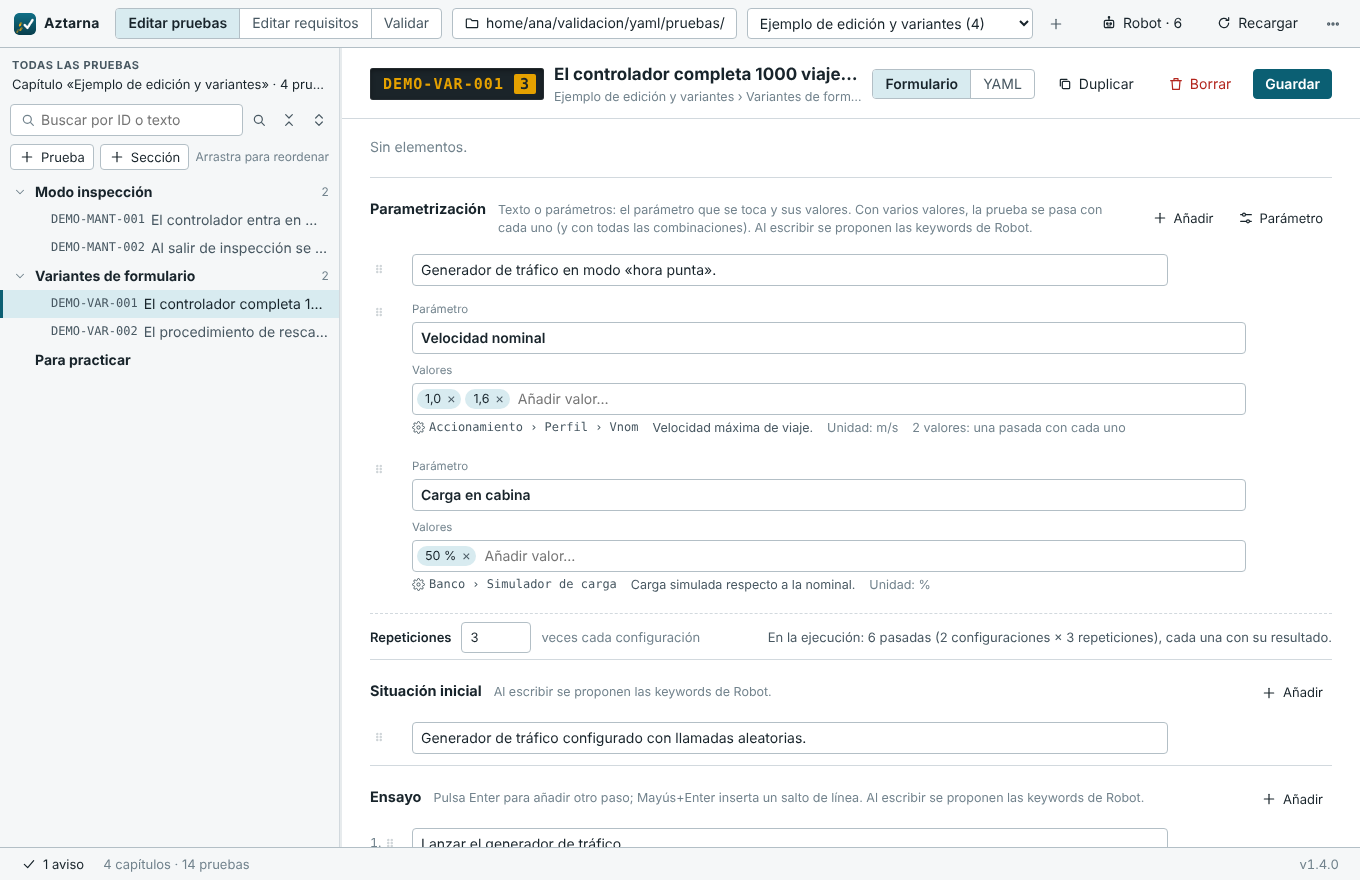
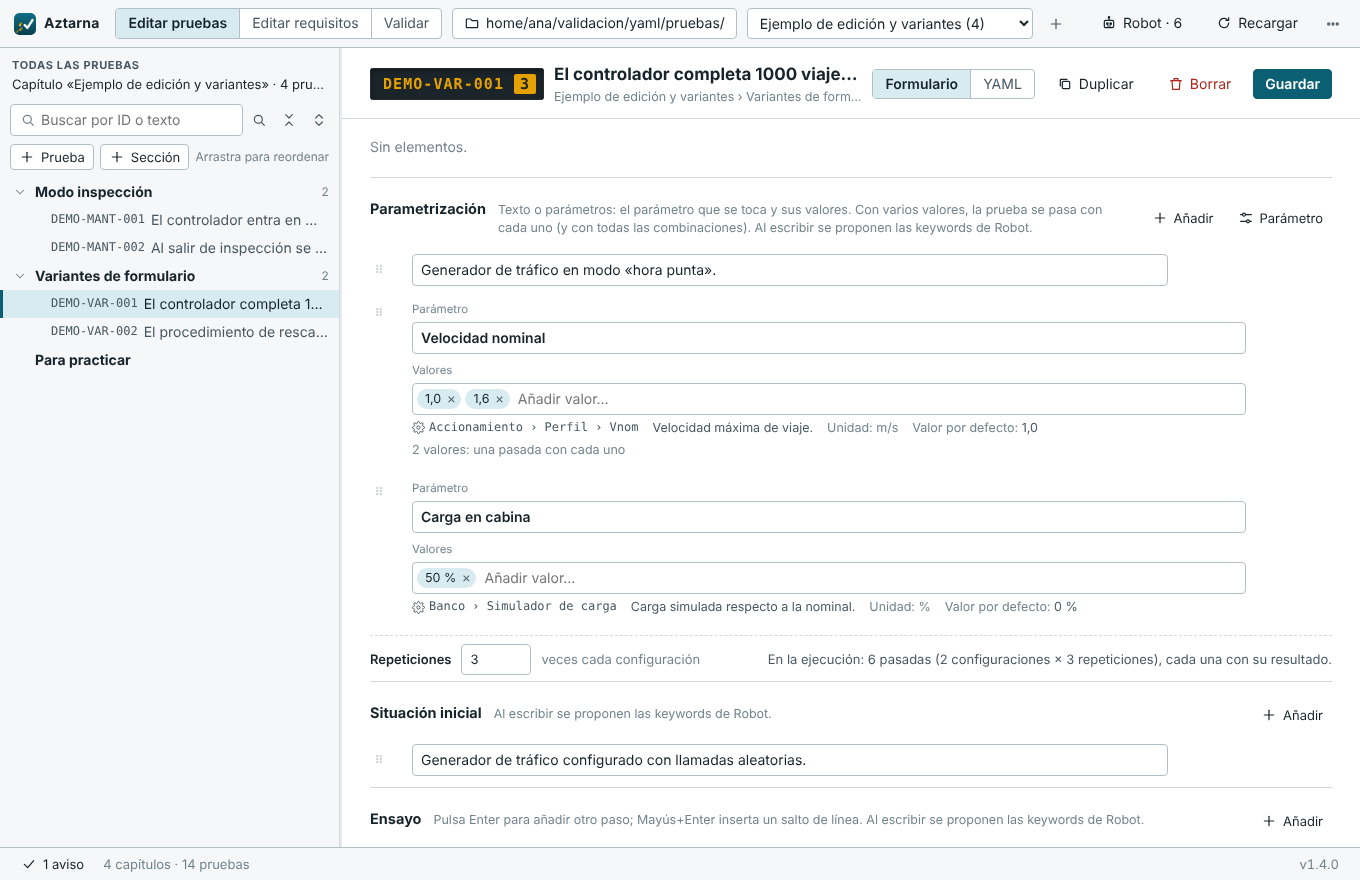
Catálogo de parámetros: solo la columna del parámetro es obligatoria; las demás se enseñan tal cual
Claude-Session: https://claude.ai/code/session_01J8Tj4AQ5BQ3LtPFJNhaWze

Changed region(s): [[0.2779, 0.4909, 0.9882, 0.9818], [0.6794, 0.4602, 0.8029, 0.4909], [0.9265, 0.8898, 0.9882, 0.9511]]

diff --git a/web/js/form.js b/web/js/form.js
@@ -655,6 +655,8 @@ function notaParametro(fila) {
     if (cat.ubicacion) partes.push(h("span", { class: "ubicacion", title: "Dónde se toca en el configurador" }, icon("engranaje"), cat.ubicacion));
     if (cat.descripcion) partes.push(h("span", { text: cat.descripcion }));
     if (cat.unidad) partes.push(h("span", { class: "muted", text: `Unidad: ${cat.unidad}` }));
+    // Las demás columnas del catálogo, tal cual («Valor por defecto: 1,0»).
+    for (const [columna, valor] of cat.otros || []) partes.push(h("span", {}, h("span", { class: "muted", text: `${columna}: ` }), valor));
     const fuera = cat.valores.length ? fila.valores.filter((v) => !cat.valores.some((c) => claveNombre(c) === claveNombre(v))) : [];
     if (fuera.length) partes.push(h("span", { class: "aviso-parametro", text: `${fuera.join(", ")}: no ${fuera.length === 1 ? "es un valor" : "son valores"} del catálogo` }));
   } else if (AYUDA_PARAMETROS.catalogo.length) {

diff --git a/app/parametros.py b/app/parametros.py
@@ -249,12 +249,26 @@ def _separar_valores(texto: str) -> list[str]:
     return [v.strip() for v in re.split(r"[;\n|]", texto) if v.strip()]
 
 
-def leer_catalogo(ruta: str | Path) -> list[dict[str, Any]]:
-    """Parámetros del catálogo: [{parametro, ubicacion, descripcion, valores, unidad}].
+def _columnas(claves: list[str]) -> dict[str, int | None]:
+    """Columna de cada dato que se reconoce (por orden de preferencia de sus nombres)."""
+    posicion: dict[str, int | None] = {}
+    usadas: set[int] = set()
+    for campo, nombres in COLUMNAS.items():
+        posicion[campo] = next((i for nombre in nombres for i, c in enumerate(claves) if c == nombre and i not in usadas), None)
+        if posicion[campo] is not None:
+            usadas.add(posicion[campo])
+    return posicion
 
-    La primera fila con una columna «Parámetro» es la cabecera; las demás
-    columnas que se reconocen (Ubicación, Descripción, Valores, Unidad) son
-    opcionales. Los valores van separados por «;» (o en líneas).
+
+def leer_catalogo(ruta: str | Path) -> list[dict[str, Any]]:
+    """Parámetros del catálogo: [{parametro, ubicacion, descripcion, valores, unidad, otros}].
+
+    La cabecera es la primera fila con una columna «Parámetro» (o, si ninguna la
+    tiene, la primera fila con algo, y el parámetro es su primera columna). Las
+    demás columnas son opcionales y van en cualquier orden: Ubicación,
+    Descripción, Valores (separados por «;» o en líneas) y Unidad se reconocen
+    por su nombre; las que tengan otro nombre van en `otros` como
+    [[columna, valor], …], para enseñarlas tal cual.
     """
     ruta = Path(ruta)
     try:
@@ -265,23 +279,30 @@ def leer_catalogo(ruta: str | Path) -> list[dict[str, Any]]:
     for n, fila in enumerate(filas):
         claves = [clave_nombre(c) for c in fila]
         if any(c in COLUMNAS["parametro"] for c in claves):
-            cabecera = n
-            for campo, nombres in COLUMNAS.items():
-                posicion[campo] = next((i for i, c in enumerate(claves) if c in nombres), None)
+            cabecera, posicion = n, _columnas(claves)
             break
     if cabecera is None:
-        raise ValueError(f"{ruta.name}: falta la columna «Parámetro» en el catálogo de parámetros.")
+        # Sin columna «Parámetro»: la primera fila con algo es la cabecera y el parámetro, su primera columna.
+        cabecera = next((n for n, fila in enumerate(filas) if any(c.strip() for c in fila)), None)
+        if cabecera is None:
+            raise ValueError(f"{ruta.name}: el catálogo de parámetros está vacío.")
+        primera = next(i for i, c in enumerate(filas[cabecera]) if c.strip())
+        claves = [clave_nombre(c) if i != primera else "parametro" for i, c in enumerate(filas[cabecera])]
+        posicion = _columnas(claves)
+    reconocidas = {i for i in posicion.values() if i is not None}
+    otras = [(i, c.strip()) for i, c in enumerate(filas[cabecera]) if i not in reconocidas and c.strip()]
     catalogo, vistos = [], set()
     for fila in filas[cabecera + 1:]:
-        def celda(campo: str) -> str:
-            i = posicion.get(campo)
+        def celda(i: int | None) -> str:
             return fila[i].strip() if i is not None and i < len(fila) else ""
-        nombre = celda("parametro")
+        nombre = celda(posicion.get("parametro"))
         if not nombre or clave_nombre(nombre) in vistos:
             continue
         vistos.add(clave_nombre(nombre))
-        catalogo.append({"parametro": nombre, "ubicacion": celda("ubicacion"), "descripcion": celda("descripcion"),
-                         "valores": _separar_valores(celda("valores")), "unidad": celda("unidad")})
+        catalogo.append({"parametro": nombre, "ubicacion": celda(posicion.get("ubicacion")),
+                         "descripcion": celda(posicion.get("descripcion")),
+                         "valores": _separar_valores(celda(posicion.get("valores"))), "unidad": celda(posicion.get("unidad")),
+                         "otros": [[columna, celda(i)] for i, columna in otras if celda(i)]})
     return catalogo
 
 

diff --git a/tests/test_parametros.py b/tests/test_parametros.py
@@ -90,6 +90,7 @@ class CatalogoTests(unittest.TestCase):
         self.assertEqual(velocidad["ubicacion"], "Accionamiento › Perfil › Vnom")
         self.assertEqual(velocidad["valores"], ["0,5", "1,0", "1,6", "2,5"])
         self.assertEqual(velocidad["unidad"], "m/s")
+        self.assertEqual(velocidad["otros"], [["Valor por defecto", "1,0"]])
 
     def test_excel_con_titulo_encima_y_columnas_en_otro_orden(self):
         libro = Workbook()
@@ -101,12 +102,25 @@ class CatalogoTests(unittest.TestCase):
         libro.save(self.tmp / "catalogo.xlsx")
         self.assertEqual(parametros.leer_catalogo(self.tmp / "catalogo.xlsx"),
                          [{"parametro": "Número de paradas", "ubicacion": "Instalación", "descripcion": "",
-                           "valores": ["4", "8"], "unidad": ""}])
+                           "valores": ["4", "8"], "unidad": "", "otros": []}])
 
-    def test_sin_columna_parametro(self):
-        (self.tmp / "malo.csv").write_text("A;B\n1;2\n", encoding="utf-8")
-        with self.assertRaisesRegex(ValueError, "Parámetro"):
-            parametros.leer_catalogo(self.tmp / "malo.csv")
+    def test_otras_columnas_se_conservan_tal_cual(self):
+        (self.tmp / "c.csv").write_text("Nombre en el configurador;Parámetro;Valor por defecto;Módulo\n"
+                                        "Vnom;Velocidad nominal;1,0;\n", encoding="utf-8")
+        p = parametros.leer_catalogo(self.tmp / "c.csv")[0]
+        self.assertEqual((p["parametro"], p["otros"]),
+                         ("Velocidad nominal", [["Nombre en el configurador", "Vnom"], ["Valor por defecto", "1,0"]]))
+
+    def test_sin_columna_parametro_vale_la_primera(self):
+        (self.tmp / "d.csv").write_text("\nSeñal;Rango\nT_puertas;2..8 s\n", encoding="utf-8")
+        self.assertEqual(parametros.leer_catalogo(self.tmp / "d.csv"),
+                         [{"parametro": "T_puertas", "ubicacion": "", "descripcion": "", "valores": [], "unidad": "",
+                           "otros": [["Rango", "2..8 s"]]}])
+
+    def test_vacio(self):
+        (self.tmp / "vacio.csv").write_text("\n;\n", encoding="utf-8")
+        with self.assertRaisesRegex(ValueError, "vacío"):
+            parametros.leer_catalogo(self.tmp / "vacio.csv")
 
     def test_aztarna_yaml_indica_el_catalogo(self):
         try:

diff --git a/MANUAL.md b/MANUAL.md
@@ -496,12 +496,21 @@ ser parámetros y repeticiones. Cómo se pasan en una ejecución: ver
 [6.5](#65-pasar-una-prueba).
 
 **El catálogo de parámetros** es un Excel (`.xlsx`) o un CSV del proyecto con
-una fila por parámetro y las columnas **Parámetro** (obligatoria),
-**Ubicación** (dónde está en el configurador), **Descripción**, **Valores**
-(los admitidos, separados por `;`) y **Unidad**; la primera fila con una
-columna *Parámetro* es la cabecera, así que puede tener un título encima. Se
-indica en el `aztarna.yaml` del proyecto, con la ruta relativa a él, y va a
-Git con las pruebas:
+una fila por parámetro. La única columna obligatoria es la del **Parámetro**
+(su nombre); las demás son al gusto y en cualquier orden:
+
+- estas se reconocen por su nombre (sin importar mayúsculas ni tildes) y
+  tienen uso propio: **Ubicación** (o *Dónde*, *Configurador*, *Ruta*: dónde
+  está en el configurador), **Descripción**, **Valores** (los admitidos,
+  separados por `;` o en líneas; vacía, cualquier valor vale) y **Unidad**;
+- cualquier otra (*Valor por defecto*, *Nombre en el configurador*,
+  *Módulo*…) se enseña tal cual debajo del parámetro, como «Valor por
+  defecto: 1,0».
+
+La cabecera es la primera fila con una columna *Parámetro*, así que puede
+haber un título encima; si ninguna columna se llama así, el parámetro es la
+primera columna. Se indica en el `aztarna.yaml` del proyecto, con la ruta
+relativa a él, y va a Git con las pruebas:
 
 ```yaml
 parametros: parametros.xlsx

diff --git a/README.md b/README.md
@@ -193,9 +193,11 @@ equivalencias:                 # otras formas de escribirlas en el Word
 parametros: parametros.xlsx    # catálogo de parámetros (opcional, ver app/parametros.py)
 ```
 
-El catálogo de parámetros es un Excel o CSV con las columnas Parámetro,
-Ubicación, Descripción, Valores (separados por `;`) y Unidad; el editor
-propone sus parámetros al escribir la parametrización. Ejemplo en
+El catálogo de parámetros es un Excel o CSV con una fila por parámetro: la
+columna Parámetro es obligatoria; Ubicación, Descripción, Valores (separados
+por `;`) y Unidad se reconocen por su nombre, y cualquier otra columna se
+enseña tal cual. El editor propone sus parámetros al escribir la
+parametrización. Ejemplo en
 `ejemplos/yaml/parametros.csv`.
 
 Sin el archivo, maniobra no tiene opciones y entorno usa Automático, Maqueta

diff --git a/CHANGELOG.md b/CHANGELOG.md
@@ -14,7 +14,9 @@ cada versión publicada lleva su etiqueta de Git (`v0.8.0`…).
   repetirla o cambiar la configuración.
 - **Catálogo de parámetros**: un Excel o CSV del proyecto (clave `parametros`
   del `aztarna.yaml`) con los parámetros del configurador, dónde se tocan,
-  qué son y qué valores admiten. El editor los propone al escribir (con su
+  qué son y qué valores admiten. Solo la columna del parámetro es
+  obligatoria; las demás van al gusto (las que no se reconocen se enseñan tal
+  cual, como «Valor por defecto: 1,0»). El editor los propone al escribir (con su
   ubicación) y el panel de problemas avisa de los parámetros o valores que no
   están en él. Ejemplo en `ejemplos/yaml/parametros.csv`.
 - **Pasadas en la ejecución**: la prueba tiene una rejilla con una casilla
